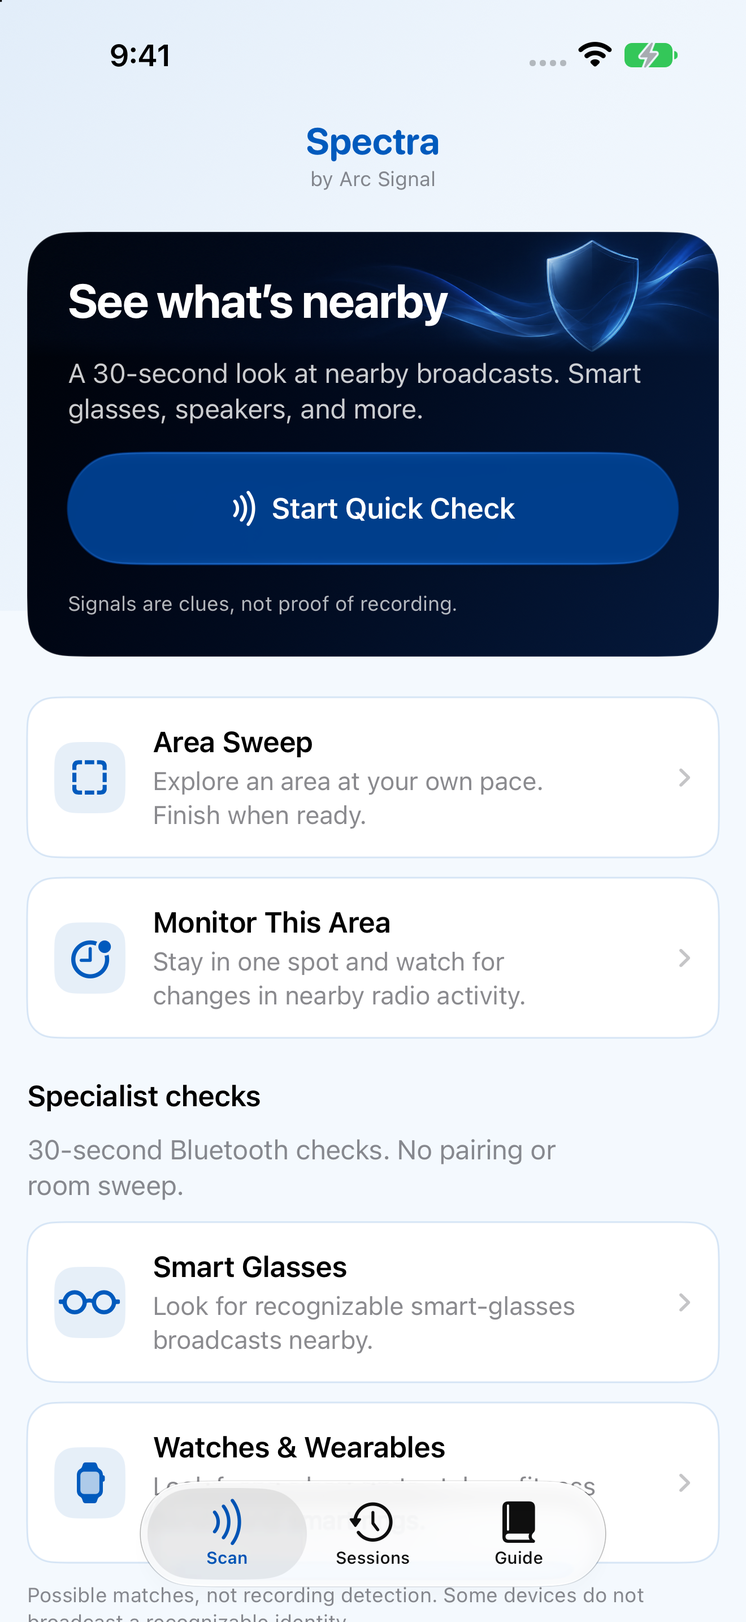
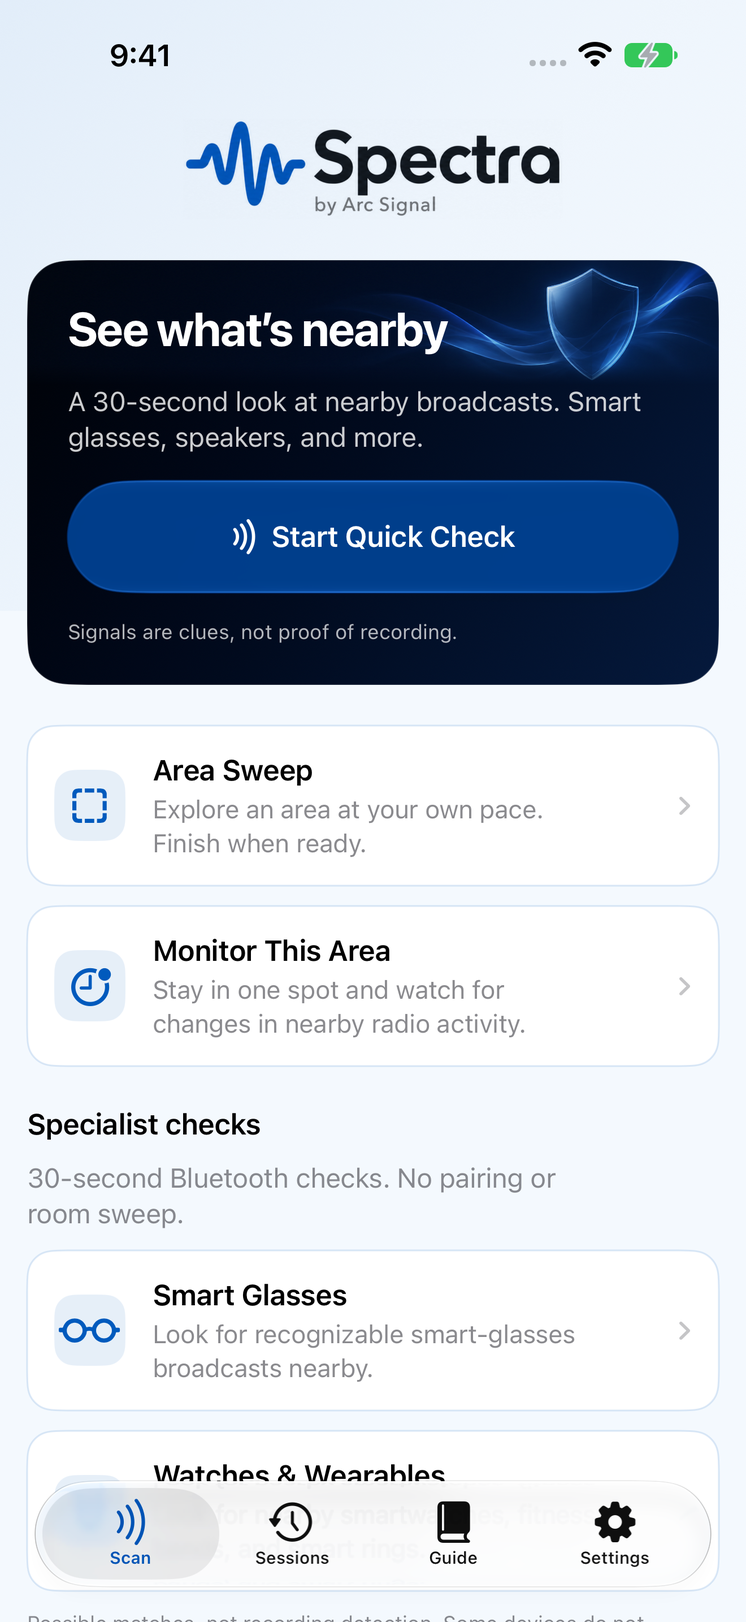
Integrate approved Spectra branding and refresh Settings-era imagery

diff --git a/guide.html b/guide.html
@@ -96,13 +96,13 @@
 <article id="privacy" class="guide-topic">
         <h2>Privacy and storage</h2><p class="guide-takeaway">No account. No advertising or analytics SDK. Your checks are processed and saved on this iPhone. Sharing is your choice.</p>
         <section><h3>On-device processing, optional sharing</h3><p>Spectra processes observations and Apple Intelligence explanations on device. It does not automatically share your results or capture camera frames or microphone recordings. External sharing is a separate choice.</p></section>
-<section><h3>You choose what gets measured</h3><p>Set up access here in Guide or when you start a check. Spectra checks selected sources again before scanning and explains when a source cannot run. Setup does not create a saved session. The camera and microphone are not accessed.</p></section>
+<section><h3>You choose what gets measured</h3><p>Set up access in Spectra’s Settings tab or when you start a check. Spectra checks selected sources again before scanning and explains when a source cannot run. Setup does not create a saved session. The camera and microphone are not accessed.</p></section>
 <section><h3>History is your choice</h3><p>Completed checks are saved locally by default. Turning saving off keeps future checks out of history; it does not delete reports you already saved.</p></section>
-<section><h3>Read the full privacy policy</h3><p>Open Privacy policy from Welcome or Guide → About for the public policy, including local observations, permissions, erasure, optional exports, support correspondence, and website hosting. Reading the website requires an internet connection; this practical Guide stays available offline.</p></section>
+<section><h3>Read the full privacy policy</h3><p>Open Privacy policy from Welcome or Spectra Settings → About for the public policy, including local observations, permissions, erasure, optional exports, support correspondence, and website hosting. Reading the website requires an internet connection; this practical Guide stays available offline.</p></section>
 <section><h3>Share only when you choose</h3><p>Export JSON on completed or saved results lets you choose Analysis JSON, Technical archive, or Reduced identifying information. Analysis JSON includes meaningful retained evidence and your notes; the technical archive also includes raw retained data and saved graphs. All formats exclude generated AI explanations. Reduced omits identifying text and raw payloads but is not anonymous. All formats ignore visible results filters. Nothing is uploaded automatically.</p></section>
 <section><h3>Copying a finding for another AI app</h3><p>Selecting one finding in Copy for AI analysis prepares its data and a prompt locally. Review the preview and privacy notice; only tapping Copy prompt and finding writes to the clipboard. Names and optional technical data may identify devices or people; the default copy is not anonymous either. Spectra requests an on-device-only clipboard item that expires after ten minutes. Pasting into another app shares it under its policies; expiration or Reset Spectra cannot recall copies already shared. No AI app opens and nothing uploads automatically.</p></section>
         <aside class="guide-important"><strong>Keep in mind</strong><p>Advertised device names can contain personal information. Those names may appear in results and saved checks on this iPhone.</p></aside>
-        <section><h3>How to use it</h3><ol><li>Use Save completed sessions on the Guide screen to control future history saving.</li><li>Open Sessions to delete one report, use Select for several, or Erase All Sessions to also remove recovery copies.</li><li>Use Reset Spectra in Guide to erase local sessions and preferences and return to Welcome. iOS permissions are controlled in Settings; copies you saved or shared elsewhere remain.</li></ol></section>
+        <section><h3>How to use it</h3><ol><li>Use Save completed sessions in Spectra Settings to control future history saving.</li><li>Open Sessions to delete one report, use Select for several, or Erase All Sessions to also remove recovery copies.</li><li>Use Reset Spectra in Spectra Settings to erase local sessions and preferences and return to Welcome. iOS permissions are controlled in iPhone Settings; copies you saved or shared elsewhere remain.</li></ol></section>
         <details><summary>More detail</summary><section><h3>Protected, bounded history</h3><p>Saved reports and notes use iOS file protection. New on-device AI explanations are temporary: they are not saved in sessions or included in exports. Older sessions may still contain explanations saved by an earlier app version; deleting those sessions removes that local history too. Spectra marks the session directory, including recovery copies, for exclusion from device backups. This is not a guarantee that sessions can never appear in a backup or on a restored device; iOS controls backup and restore behavior. Files you export may be stored or backed up by your chosen destination. The primary history file retains up to 50 sessions within 256 MiB; older sessions may be removed when either limit is reached. Safe file replacement and protected recovery copies can require additional disk space. These are not tamper-evident forensic records or an unlimited archive.</p></section>
 <section><h3>Session-scoped identifiers</h3><p>Identifiers reset with each check. Recognizable advertised names and product metadata remain unverified claims and can contain personal information; resetting an identifier does not anonymize a transmitted name.</p></section>
 <section><h3>What local-network access does</h3><p>When selected, Spectra browses a fixed catalog of Bonjour services on the joined network. It does not pair with discovered devices or open application sessions to their endpoints.</p></section>
@@ -142,10 +142,11 @@
 <section><h3>Start with access</h3><p>Welcome explains the app. Get Started opens measurement setup. Tap a measurement to request its access; a readiness checkmark reflects the system response. You can continue without every permission. A prompt explains what remains unconfigured, and a later check requests only missing access.</p></section>
 <section><h3>Choose measurements for each check</h3><p>Quick Check uses Bluetooth and optional Local Network for 30 seconds. Area Sweep is untimed and can use Bluetooth, Local Network, and Motion and magnetic, together or independently. Monitor is stationary and radio-only. Smart Glasses and Watches &amp; Wearables are Bluetooth-only specialist checks without scan-time choices. Completed results offer name search and a separate View observed activity route for Bluetooth identities that did not match. Device types are estimates, not selectable filters.</p></section>
 <section><h3>Start from the Home Screen</h3><p>Touch and hold Spectra’s app icon, then choose Quick Check, Smart Glasses, or Watches &amp; Wearables. Quick Check opens measurement selection; the specialist shortcuts check Bluetooth access before starting. On first use, finish Welcome and measurement setup, then explicitly start your requested check. Canceling clears that request. If a check is still open, including its completed results, or another task is presented over the app, Spectra preserves it instead of starting another scan; close it and choose the shortcut again. Shortcuts do not enable background scanning or completion sounds.</p></section>
+<section><h3>Choose an app icon</h3><p>In Spectra, open Settings → App icon to choose Classic, Spectra Blue, Light, or Blue on White. Each uses Spectra’s original waveform. A checkmark identifies the icon confirmed by iOS; a spinner shows a change in progress. This changes the app icon, not the colors inside Spectra. Your iPhone’s icon appearance settings may adjust the colors. Reset Spectra erases local data and returns to Welcome first, then asks iOS to restore Classic. If iOS takes longer than expected, Spectra reports the unconfirmed change; iOS may still finish an earlier request. Review the icon in Settings after setup.</p></section>
 <section><h3>No local network available?</h3><p>Local Network needs a joined Wi-Fi or supported wired local link and permission. Spectra offers Check again or continuation without that measurement when others can run. Returning from Settings rechecks availability; it does not silently start a scan. An internet connection is not required for local discovery.</p></section>
 <section><h3>Read Coverage</h3><p>Completed means the source ran for the available check window, not that every device was found. Partial means coverage was interrupted or quality-limited. Unavailable means the source could not run; Not selected means you excluded it. Read the accompanying reason before drawing conclusions.</p></section>
         <aside class="guide-important"><strong>Keep in mind</strong><p>Permission, hardware readiness, network reachability, and device visibility are different things. A green permission checkmark is not a safety verdict.</p></aside>
-        <section><h3>How to use it</h3><ol><li>Open Guide → Measurement access to revisit setup.</li><li>If iOS has already denied access, use Settings → Privacy &amp; Security or the app’s settings to change it.</li><li>Return to Spectra, choose measurements, and review any readiness message before starting.</li></ol></section>
+        <section><h3>How to use it</h3><ol><li>In Spectra, open Settings → Measurement access to revisit setup.</li><li>If iOS has already denied access, use iPhone Settings → Privacy &amp; Security or the app’s settings to change it.</li><li>Return to Spectra, choose measurements, and review any readiness message before starting.</li></ol></section>
         <details><summary>More detail</summary><section><h3>Why does Wi-Fi name ask for Location?</h3><p>Showing an optional Wi-Fi name uses Apple’s Access Wi-Fi Information rules, including Precise Location While Using the App when required. This is not needed for Bluetooth, magnetic exploration, or Bonjour browsing. Spectra does not request geographic coordinates or save the Wi-Fi name. iOS may withhold a name even when local discovery can operate.</p></section>
 <section><h3>A Wi-Fi name is not a router identity</h3><p>The displayed network name provides connection context, not a router model, physical location, or assurance that the network is trustworthy. Guest networks and client isolation may prevent discovering other clients despite a working connection.</p></section>
 <section><h3>Text size and accessibility</h3><p>Spectra uses a fixed standard text size. Changing iOS Dynamic Type or Larger Text does not resize the app’s own interface. VoiceOver labels remain available, and contrast and reduced-motion preferences still apply. System-owned permission dialogs and sharing interfaces are controlled by iOS.</p></section>
@@ -168,7 +169,7 @@
 <article id="sessions" class="guide-topic">
         <h2>Save, recheck, and manage sessions</h2><p class="guide-takeaway">Keep the checks you need, add context, and stay in control of local history.</p>
         <section><h3>Find a check by day</h3><p>Sessions groups checks by day, newest first, with the newest times first inside each group. The most recent day starts open; tap any date heading to show or hide its sessions. Each heading shows the total for that day. You can keep several days open, and your choices stay in place while moving between tabs or opening and returning from a session. These choices are not saved across app launches. A new most-recent day starts open; deleting all history or changing time zone can reset the day groups. Each row keeps its check-type icon even after you rename it.</p></section>
-<section><h3>Confirm a check was saved</h3><p>Saving completed sessions is on by default and can be changed in Guide. Turning it off affects future saving, not existing history. The completed check tells you whether it was saved. If saving fails, keep the result open and use Retry Saving or Export JSON before discarding it. A forced close, crash, or shutdown before saving can lose an unfinished check; there is no continuous autosaved draft. Finish and confirm important checks before closing the app.</p></section>
+<section><h3>Confirm a check was saved</h3><p>Saving completed sessions is on by default and can be changed in Spectra Settings. Turning it off affects future saving, not existing history. The completed check tells you whether it was saved. If saving fails, keep the result open and use Retry Saving or Export JSON before discarding it. A forced close, crash, or shutdown before saving can lose an unfinished check; there is no continuous autosaved draft. Finish and confirm important checks before closing the app.</p></section>
 <section><h3>Give a session a useful name</h3><p>Open a session and choose Session options → Rename, or use its list-row menu. Names can be up to 80 characters. Clearing a custom name restores the check-type name. Notes hold up to 1,000 characters of your own context; they do not become detector evidence. A rename does not change the original scan time.</p></section>
 <section><h3>What does the blue dot mean?</h3><p>A blue dot beside a session means newer recognition is available. Open it and choose Recheck session. Spectra reinterprets compatible saved radio evidence using the engine and catalog bundled with your app update. It does not start Bluetooth or network discovery, collect new measurements, or upload your capture. Opening a session alone does not clear the dot.</p></section>
 <section><h3>Can I recheck after leaving the location?</h3><p>Yes. A recheck uses saved evidence, so you do not need to return to the location, join its network, or enable Apple Intelligence. Newer recognition may explain a previously unclear signal, but better matches are not guaranteed. Rechecking cannot recover measurements that were never retained or tell you what is at that location now. Run a new check there for a new observation.</p></section>
@@ -176,7 +177,7 @@
 <section><h3>When is another recheck useful?</h3><p>Once a current recheck is saved, the blue dot clears for that capture family; earlier copies link to the latest interpretation. A later app update can make the newest usable copy eligible again. Deleting the current interpretation can restore eligibility on a surviving older copy. A missing revision or insufficient retained evidence can prevent rechecking; Scan breakdown explains why. Some older network records lack the original discovery fields. Unsupported records and saved magnetic readings are preserved, not reconstructed or treated as fresh measurements.</p></section>
 <section><h3>Rechecks need room to save</h3><p>A recheck keeps its own retained evidence, so it uses additional local storage and counts toward the session limit. It never removes an existing session to make room. Requesting a recheck explicitly saves a new copy even if automatic saving of completed scans is off. Deleting the original does not delete its independent rechecks. If saving fails, free space or remove sessions you no longer need, then retry. Cancel or leave the screen to stop pending work; a copy already saved at the moment you cancel remains in Sessions. Erase All Sessions and Reset include rechecks.</p></section>
 <section><h3>Why did an older session disappear?</h3><p>The primary history file keeps up to 50 sessions within 256 MiB, whichever limit is reached first. Temporary replacement files and protected recovery copies may need additional disk space. Saving a new check can remove the oldest reports. Sessions warns as the count approaches the limit and reports retention removals. Export important records before continuing to fill history. Spectra marks local history for exclusion from device backups; iOS controls backup and restore behavior. Files you export may be backed up by your chosen destination.</p></section>
-<section><h3>Choose the right erase action</h3><p>Delete one session from its list actions, or Select several. Hiding a day does not deselect its sessions: the date heading keeps its selected count, and Delete Selected shows the total across days. Open that day to change its selection. Erase All Sessions includes closed days and recovery copies; it is disabled when there is nothing to erase. Reset Spectra in Guide also clears preferences and returns to Welcome. Confirmations are deliberate because erasure cannot be undone.</p></section>
+<section><h3>Choose the right erase action</h3><p>Delete one session from its list actions, or Select several. Hiding a day does not deselect its sessions: the date heading keeps its selected count, and Delete Selected shows the total across days. Open that day to change its selection. Erase All Sessions includes closed days and recovery copies; it is disabled when there is nothing to erase. Reset Spectra in Spectra Settings also clears preferences and returns to Welcome. Confirmations are deliberate because erasure cannot be undone.</p></section>
         <aside class="guide-important"><strong>Keep in mind</strong><p>Deleting or resetting Spectra cannot delete exports, email attachments, or files already saved elsewhere. iOS permissions also remain under Settings control.</p></aside>
         <section><h3>How to use it</h3><ol><li>Open Sessions, tap a date heading if needed, and choose a check by its name and time. A blue dot marks an available recheck, not an unread session.</li><li>If Recheck session is available, tap it and wait for a separately saved result. Review the original Captured date, the Rechecked date, and any identification changes.</li><li>Review results and Coverage, rename or add notes, then export anything you need to keep outside bounded history.</li><li>Use individual, selected, or all-session deletion for the scope you intend. Read the confirmation before erasing.</li></ol></section>
         <details><summary>More detail</summary><section><h3>Storage is temporarily unavailable</h3><p>Unlock the iPhone and return to Spectra or retry saving. A temporary read failure pauses history changes and is retried; it does not trigger damaged-file recovery or authorize overwriting existing sessions. If the problem persists, keep any unsaved result open and export it if possible before contacting support.</p></section>
@@ -214,14 +215,14 @@
 <section><h3>Wi-Fi works but no devices appear</h3><p>Internet access does not prove local discovery works. Guest isolation, blocked multicast, unadvertised service types, separate subnets, or a denied Local Network permission can prevent results. Check Coverage and the joined network. Spectra is not a scanner for all Wi-Fi radios and does not probe arbitrary ports.</p></section>
 <section><h3>A check stopped or looks incomplete</h3><p>Keep Spectra visible. Locking, switching apps, permission changes, source loss, and early Finish can limit a check. Review the incomplete message and retained findings; do not interpret it as no matches. After restoring access, start a fresh check. On a busy scan, wait for Finish to explore stable detailed results.</p></section>
         <aside class="guide-important"><strong>Keep in mind</strong><p>For a repeatable problem, contact support@arcsignal.app. Start with support information, the steps taken, and what you expected. Do not send private scan results unless you deliberately choose to share them.</p></aside>
-        <section><h3>How to use it</h3><ol><li>Open Coverage and read the reason for each partial or unavailable measurement.</li><li>Check Settings if access was denied, return to Spectra, and repeat the smallest affected check.</li><li>Use Guide → Copy support information, then Email support. The copy includes version, build, iOS, hardware model and catalog revision—not scan data.</li></ol></section>
+        <section><h3>How to use it</h3><ol><li>Open Coverage and read the reason for each partial or unavailable measurement.</li><li>Check iPhone Settings if access was denied, return to Spectra, and repeat the smallest affected check.</li><li>In Spectra Settings, use Copy support information, then Email support. The copy includes version, build, iOS, hardware model and catalog revision—not scan data.</li></ol></section>
         <details><summary>More detail</summary><section><h3>Heat, battery, and dense environments</h3><p>Live radios, sensors, and the screen use power. Finish checks you no longer need. Keep the phone ventilated and follow iOS temperature warnings; Spectra cannot guarantee identical performance across all hardware or conditions. Bounded buffers may drop observations in dense environments, which Coverage reports.</p></section>
 <section><h3>Help us reproduce it safely</h3><p>Include the scan mode, selected sources, approximate duration, permission state, whether the app was interrupted, and exact error text. Screenshots may include personal broadcast names; review them before sending. The support clipboard expires after ten minutes and is not shared through Universal Clipboard. Email opens your chosen mail app; nothing is attached or sent automatically.</p></section></details>
         <a class="text-link" href="#main">Back to topics ↑</a>
       </article>
       <section id="support" class="guide-topic"><p class="eyebrow">A person can help</p><h2>Still have a question?</h2>
         <p>Email <a href="mailto:support@arcsignal.app">support@arcsignal.app</a>. Include the scan mode, selected measurements, what happened, and what you expected.</p>
-        <p>In Spectra, choose Guide → Copy support information for the version, build, iOS, hardware model, and catalog revision. It contains no scan data. Review screenshots and exports for personal information before sharing.</p>
+        <p>In Spectra, choose Settings → Copy support information for the version, build, iOS, hardware model, and catalog revision. It contains no scan data. Review screenshots and exports for personal information before sharing.</p>
         <p>Nothing is attached or sent automatically. For a credible security threat, use a trusted security contact rather than relying on a phone scan or waiting for product support.</p>
       </section>
     </div></div>

diff --git a/spectra.html b/spectra.html
@@ -18,8 +18,8 @@
   <link rel="apple-touch-icon" href="assets/images/spectra-touch-icon.png">
   <link rel="preload" href="assets/fonts/inter-latin.woff2" as="font" type="font/woff2" crossorigin>
   <link rel="preload" href="assets/fonts/bodoni-moda-latin.woff2" as="font" type="font/woff2" crossorigin>
-  <link rel="stylesheet" href="assets/css/site.css">
-  <script src="assets/js/site-motion.js" defer></script>
+  <link rel="stylesheet" href="assets/css/site.css?v=ffaf7b49b39a">
+  <script src="assets/js/site-motion.js?v=d9a6de5ca733" defer></script>
 </head>
 <body class="spectra-page">
   <a class="skip-link" href="#main">Skip to content</a>
@@ -39,8 +39,8 @@
   </header>
   <main id="main" tabindex="-1">
     <section class="hero shell" aria-labelledby="hero-title">
-      <div class="hero-copy">
-        <p class="eyebrow">Spectra™ / Security awareness</p>
+      <div class="hero-copy hero-copy--branded">
+        <svg class="spectra-wordmark spectra-wordmark--hero" viewBox="466 256 1058 280" width="1058" height="280" role="img" aria-label="Spectra by Arc Signal" focusable="false"><image href="assets/images/spectra-wordmark.webp?v=8a8abe3a9dbe" width="1983" height="793"/></svg>
         <h1 id="hero-title">Privacy starts<br>with <em>awareness.</em></h1>
         <p class="hero-summary">Explore nearby Bluetooth signals, local network services, and magnetic-field changes—all on your device.</p>
         <div class="actions">
@@ -78,10 +78,10 @@
     <section class="section shell" aria-labelledby="screens-title">
       <div class="section-intro split-heading"><div><p class="eyebrow">Inside the app</p><h2 id="screens-title">Clear at a glance.<br>More when you need it.</h2></div><p class="section-summary">Explore real screens from Spectra. Readings are simulated examples, not evidence of nearby devices. Select a screen to view it full-size.</p></div>
       <div class="screenshot-grid">
-        <figure><a href="assets/images/spectra-overview.webp?v=d9a6415a6567" aria-label="Open the full-size Spectra home screenshot"><img src="assets/images/spectra-overview.webp?v=d9a6415a6567" width="1320" height="2868" alt="Spectra’s current home screen with the blue Quick Check illustration and scan choices" loading="lazy" decoding="async"></a><figcaption><h3>Start with the right check.</h3><p>Start a quick radio check, explore with Area Sweep, or monitor the area.</p></figcaption></figure>
-        <figure><a href="assets/images/spectra-smart-glasses.webp?v=c66a82e3ca47" aria-label="Open the full-size Smart Glasses result screenshot"><img src="assets/images/spectra-smart-glasses.webp?v=c66a82e3ca47" width="1320" height="2868" alt="A fictional Acme Smart Glasses result with confidence, Bluetooth strength, and supporting evidence" loading="lazy" decoding="async"></a><figcaption><h3>Find a recognizable clue.</h3><p>Smart Glasses and Watches &amp; Wearables have dedicated checks. See possible matches clearly, with their evidence and limits.</p></figcaption></figure>
-        <figure><a href="assets/images/spectra-area-sweep.webp?v=d94124c664a7" aria-label="Open the full-size Area Sweep magnetic-meter screenshot"><img src="assets/images/spectra-area-sweep.webp?v=d94124c664a7" width="1320" height="2868" alt="Area Sweep’s live magnetic meter showing delta from reference and a graph with an example excursion" loading="lazy" decoding="async"></a><figcaption><h3>Explore with Area Sweep.</h3><p>Watch the magnetic field and changes from a stable reference. Magnetic measurement is available in Area Sweep; Quick Check focuses on radio signals.</p></figcaption></figure>
-        <figure><a href="assets/images/spectra-monitor.webp?v=6436a97fae5c" aria-label="Open the full-size Monitor change-summary screenshot"><img src="assets/images/spectra-monitor.webp?v=6436a97fae5c" width="1320" height="2868" alt="Monitor’s change dashboard with a newly observed fictional Acme Room Speaker after the baseline" loading="lazy" decoding="async"></a><figcaption><h3>Notice what changed.</h3><p>Keep the phone still and Spectra open. Glance at newly observed activity; Finish opens the complete review.</p></figcaption></figure>
+        <figure><a href="assets/images/spectra-overview.webp?v=8383bddd169f" aria-label="Open the full-size Spectra home screenshot"><img src="assets/images/spectra-overview.webp?v=8383bddd169f" width="1320" height="2868" alt="Spectra’s current home screen with the blue Quick Check illustration and scan choices" loading="lazy" decoding="async"></a><figcaption><h3>Start with the right check.</h3><p>Start a quick radio check, explore with Area Sweep, or monitor the area.</p></figcaption></figure>
+        <figure><a href="assets/images/spectra-smart-glasses.webp?v=f2d268457194" aria-label="Open the full-size Smart Glasses result screenshot"><img src="assets/images/spectra-smart-glasses.webp?v=f2d268457194" width="1320" height="2868" alt="A fictional Acme Smart Glasses result with confidence, Bluetooth strength, and supporting evidence" loading="lazy" decoding="async"></a><figcaption><h3>Find a recognizable clue.</h3><p>Smart Glasses and Watches &amp; Wearables have dedicated checks. See possible matches clearly, with their evidence and limits.</p></figcaption></figure>
+        <figure><a href="assets/images/spectra-area-sweep.webp?v=41ca8873f6ac" aria-label="Open the full-size Area Sweep magnetic-meter screenshot"><img src="assets/images/spectra-area-sweep.webp?v=41ca8873f6ac" width="1320" height="2868" alt="Area Sweep’s live magnetic meter showing delta from reference and a graph with an example excursion" loading="lazy" decoding="async"></a><figcaption><h3>Explore with Area Sweep.</h3><p>Watch the magnetic field and changes from a stable reference. Magnetic measurement is available in Area Sweep; Quick Check focuses on radio signals.</p></figcaption></figure>
+        <figure><a href="assets/images/spectra-monitor.webp?v=711424887f10" aria-label="Open the full-size Monitor change-summary screenshot"><img src="assets/images/spectra-monitor.webp?v=711424887f10" width="1320" height="2868" alt="Monitor’s change dashboard with a newly observed fictional Acme Room Speaker after the baseline" loading="lazy" decoding="async"></a><figcaption><h3>Notice what changed.</h3><p>Keep the phone still and Spectra open. Glance at newly observed activity; Finish opens the complete review.</p></figcaption></figure>
       </div>
     </section>
     <section class="section modes-section" aria-labelledby="modes-title">

diff --git a/spectra-privacy.html b/spectra-privacy.html
@@ -61,12 +61,12 @@
         </section>
         <section id="storage" class="guide-topic">
           <h2>Keep what matters. Erase what does not.</h2>
-          <p>Completed sessions are saved by default in the app’s local storage. Turn off Save completed sessions in Guide to stop future automatic scan saving; existing sessions remain until deleted. The primary history file keeps up to 50 sessions within a 256 MiB budget, removing older reports when needed for a new scan. Temporary files used for safe replacement and protected recovery copies can require additional disk space. A lightweight index lists sessions. Retained evidence is read locally when you open or recheck a session, or when an update refreshes compatibility metadata; browsing history does not run a new scan. Long-running measurement traces and event histories are also bounded.</p>
+          <p>Completed sessions are saved by default in the app’s local storage. Turn off Save completed sessions in Spectra Settings to stop future automatic scan saving; existing sessions remain until deleted. The primary history file keeps up to 50 sessions within a 256 MiB budget, removing older reports when needed for a new scan. Temporary files used for safe replacement and protected recovery copies can require additional disk space. A lightweight index lists sessions. Retained evidence is read locally when you open or recheck a session, or when an update refreshes compatibility metadata; browsing history does not run a new scan. Long-running measurement traces and event histories are also bounded.</p>
           <p>Saved reports and notes use iOS file protection. New on-device AI explanations are temporary: they are not saved in sessions or included in exports. Older sessions may still contain explanations saved by an earlier app version; deleting those sessions removes that local history too. Spectra marks the session directory, including recovery copies, for exclusion from device backups. This is not a guarantee that sessions can never appear in a backup or on a restored device; iOS controls backup and restore behavior. Files you export may be stored or backed up by your chosen destination.</p>
           <p>Recheck copies use additional local storage and count toward the same session limit. A recheck never removes another session to make room. Deleting the original does not delete its independent rechecks or erase their naming lineage. Delete the copies you no longer need, or use Erase All Sessions or Reset Spectra for the app-wide actions described below. Turning off automatic saving of completed scans does not prevent an explicitly requested recheck from saving a new copy.</p>
           <p>A privacy cover obscures sensitive app content when the app is no longer active. These protections do not make a report tamper-evident or guarantee protection on an unlocked or compromised device.</p>
           <p>If a history file is damaged, Spectra pauses changes and may preserve a protected local recovery copy. Up to three recovery copies are retained. A temporary storage-access failure is retried and is not treated as permission to overwrite your history.</p>
-          <p>In Sessions, delete one report, select several, or use Erase All Sessions to remove saved reports and recovery copies. Reset Spectra in Guide also clears preferences and returns to Welcome. Both all-data actions remove app-owned temporary JSON handoff files; failures are reported rather than described as successful erasure. Individual deletion removes that report from primary history, not older recovery copies—use Erase All Sessions or Reset Spectra for those.</p>
+          <p>In Sessions, delete one report, select several, or use Erase All Sessions to remove saved reports and recovery copies. Reset Spectra in Spectra Settings also clears preferences and returns to Welcome, then asks iOS to restore the Classic app icon. An unconfirmed cosmetic icon change does not undo data erasure. Both all-data actions remove app-owned temporary JSON handoff files; failures are reported rather than described as successful erasure. Individual deletion removes that report from primary history, not older recovery copies—use Erase All Sessions or Reset Spectra for those.</p>
           <p>Erasure cannot recall copies saved outside Spectra, shared with another app or person, or retained by a service you selected. It also cannot remove mail you sent to support; contact us separately about that information.</p>
         </section>
         <section id="apple-intelligence" class="guide-topic">
@@ -106,7 +106,7 @@
         </section>
         <section id="changes" class="guide-topic">
           <h2>Changes to this policy</h2>
-          <p>We may update this policy as Spectra, our service providers, or requirements change. The effective date above identifies the current policy. Material changes will be explained here and, where required, through an appropriate notice or consent flow. The policy is available from Welcome and Guide → About in Spectra.</p>
+          <p>We may update this policy as Spectra, our service providers, or requirements change. The effective date above identifies the current policy. Material changes will be explained here and, where required, through an appropriate notice or consent flow. The policy is available from Welcome and Settings → About in Spectra.</p>
           <a class="text-link" href="#main">Back to top ↑</a>
         </section>
       </div>

diff --git a/index.html b/index.html
@@ -18,8 +18,8 @@
   <link rel="apple-touch-icon" href="assets/images/spectra-touch-icon.png">
   <link rel="preload" href="assets/fonts/inter-latin.woff2" as="font" type="font/woff2" crossorigin>
   <link rel="preload" href="assets/fonts/bodoni-moda-latin.woff2" as="font" type="font/woff2" crossorigin>
-  <link rel="stylesheet" href="assets/css/site.css">
-  <script src="assets/js/site-motion.js" defer></script>
+  <link rel="stylesheet" href="assets/css/site.css?v=ffaf7b49b39a">
+  <script src="assets/js/site-motion.js?v=d9a6de5ca733" defer></script>
 </head>
 <body class="company-page">
   <a class="skip-link" href="#main">Skip to content</a>
@@ -55,8 +55,8 @@
       <div class="section-intro split-heading"><div><p class="eyebrow">Meet Spectra</p><h2 id="products-title">Observe. Understand.<br>Decide what’s next.</h2></div><p class="section-summary">From a quick check to a closer look, Spectra brings electronic observations and their meaning into one place.</p></div>
       <div class="product-grid">
         <article class="product-card spectra-card" id="spectra">
-          <div class="product-card-copy"><div class="product-card-meta"><p class="eyebrow">Security awareness</p><span class="status">Coming soon</span></div><h3>Spectra™</h3><p class="card-promise">The signals are there.<br>Make sense of them.</p><p>Explore nearby Bluetooth signals, local network services, and magnetic-field changes. See the evidence behind each observation.</p><a class="text-link" href="spectra.html" id="how-it-works">Explore Spectra <span aria-hidden="true">↗</span></a><p class="caption">iPhone · iOS 27 or later</p></div>
-          <a class="product-card-visual" href="spectra.html" aria-label="Explore Spectra security awareness"><img src="assets/images/spectra-overview.webp?v=d9a6415a6567" width="1320" height="2868" alt="Spectra’s current home screen with Quick Check and area exploration choices" loading="lazy" decoding="async"><span class="visual-caption">Spectra · App preview</span></a>
+          <div class="product-card-copy"><div class="product-card-meta"><p class="eyebrow">Security awareness</p><span class="status">Coming soon</span></div><h3><svg class="spectra-wordmark" viewBox="466 256 1058 280" width="1058" height="280" role="img" aria-label="Spectra by Arc Signal" focusable="false"><image href="assets/images/spectra-wordmark.webp?v=8a8abe3a9dbe" width="1983" height="793"/></svg></h3><p class="card-promise">The signals are there.<br>Make sense of them.</p><p>Explore nearby Bluetooth signals, local network services, and magnetic-field changes. See the evidence behind each observation.</p><a class="text-link" href="spectra.html" id="how-it-works">Explore Spectra <span aria-hidden="true">↗</span></a><p class="caption">iPhone · iOS 27 or later</p></div>
+          <a class="product-card-visual" href="spectra.html" aria-label="Explore Spectra security awareness"><img src="assets/images/spectra-overview.webp?v=8383bddd169f" width="1320" height="2868" alt="Spectra’s current home screen with Quick Check and area exploration choices" loading="lazy" decoding="async"><span class="visual-caption">Spectra · App preview</span></a>
         </article>
       </div>
     </section>

diff --git a/assets/css/site.css b/assets/css/site.css
@@ -27,6 +27,13 @@ em { font-style: normal; color: var(--blue); }
 .site-header .brand-mark { gap: .625rem; }
 .brand-signal { display: block; width: 36px; height: 28px; flex: none; }
 .brand-period { color: var(--blue); }
+/* The actual owner-supplied Circular artwork, not retypeset website text.
+   Inline SVG crops whitespace; multiply integrates its white matte without
+   changing the raster. Keep product identity out of company navigation. */
+.spectra-wordmark { display: block; width: 14rem; max-width: 100%; height: auto; overflow: hidden; mix-blend-mode: multiply; }
+.spectra-wordmark--hero { width: clamp(14rem, 24vw, 18rem); margin-bottom: 1.5rem; }
+/* Also safe when a visitor has the previous motion script cached. */
+.hero-copy--branded.is-revealing { animation: none; }
 nav { display: flex; align-items: center; flex-wrap: wrap; gap: clamp(1rem, 3vw, 2.5rem); }
 nav a { display: inline-flex; align-items: center; min-height: 44px; font-size: .875rem; text-decoration: none; color: var(--muted); }
 nav a:hover, nav a[aria-current="page"], .text-link:hover { color: var(--blue); }

diff --git a/assets/js/site-motion.js b/assets/js/site-motion.js
@@ -5,7 +5,8 @@
   if (preference.matches) return;
 
   const targets = document.querySelectorAll(
-    '.hero-copy, .hero-product, .section-intro, .product-card-visual, ' +
+    // Fading this branded ancestor would isolate its raster matte blending.
+    '.hero-copy:not(.hero-copy--branded), .hero-product, .section-intro, .product-card-visual, ' +
     '.screenshot-grid > figure, .three-column > article, .feature-grid > article'
   );
   const observer = new IntersectionObserver(entries => {

diff --git a/README.md b/README.md
@@ -210,15 +210,59 @@ Keep its direct-link page current. Restore public navigation, promotional copy,
 and indexing only when Seamless is ready to feature again. Privacy copy distinguishes local
 stitching from iCloud retrieval and destination services chosen by the user.
 
+## Spectra product wordmark
+
+The approved Circular logo appears once in the Spectra product hero and once in
+the company homepage's Spectra card. Arc Signal remains the navigation/footer
+brand. Inter/Bodoni typography, the original black waveform app icon, and the
+NordVPN partner treatment are unchanged. Never substitute a font or redraw the
+supplied lettering. The homepage retains a semantic product heading; each logo
+has one accessible image name, "Spectra by Arc Signal".
+
+`assets/data/spectra-brand.json` records the approved source PNG hash, lossless
+WebP hash, decoded-pixel hash, dimensions, and view crop. Every decoded pixel is
+preserved. Inline SVG crops only whitespace; an external SVG wrapper loaded as
+an img may block its external raster dependency and must not be substituted.
+Multiply blending integrates the white matte into the light-only site. The
+branded hero stays static so an opacity animation cannot isolate that blend and
+flash a white rectangle. No JavaScript is needed to render the logo.
+Both branded pages version their stylesheet and optional motion-script URLs with
+the current content hashes. A visitor with the older resources cached therefore
+receives the sizing/blending rules needed by the new wordmark. Tests reject stale
+revision strings; update these two URLs when changing the corresponding resources.
+
+The hero width is 14–18rem; the product-card logo is 14rem, constrained by available
+space. This balances brand visibility and byline legibility without competing
+with the headline or download action. These limited placements follow
+[Apple branding](https://developer.apple.com/design/human-interface-guidelines/branding)
+and [NN/g consistency](https://www.nngroup.com/articles/consistency-and-standards/),
+not a claim of measured engagement improvement.
+
+Reproduce using `cwebp` and ImageMagick:
+
+```sh
+node scripts/import-spectra-wordmark.mjs /path/to/Spectra/repository
+```
+
+The importer checks the approved source and decoded-pixel equality, validates
+both HTML placements, then updates content-hashed URLs. Normal site tests check
+committed hashes and placement without image tooling. The original 3 MB content
+budget stays in place, with a separate 415,000-byte allowance only for this
+lossless logo (currently 411,678 bytes). Images/fonts remain self-hosted.
+
 ## App screenshots
 
-The September 17 refresh uses the same verified native captures as Spectra’s
+The September 18 refresh uses the same verified native captures as Spectra’s
 App Store set: Home, Smart Glasses results, magnetic Area Sweep, and the current
 Monitor change dashboard. The approved app interface is not retouched. Fictional
 Acme names and isolated simulator readings are disclosed in the gallery caption.
 Light/dark appearance follows each original capture. App Store marketing frames
 and traveler artwork remain in the app repository; website images are UI-only.
-The source revision is `cb55303`: Home includes Watches & Wearables, and the
+The source revision is `fc111c9`: Home uses the owner's exact Circular wordmark,
+and the bottom navigation now has Scan, Sessions, Guide, and Settings. Guide
+contains searchable help; Settings owns global preferences, app-icon colors,
+privacy/storage controls, About, support, and reset. The generated Guide and
+privacy policy describe the current routes. Home includes Watches & Wearables, and the
 Smart Glasses frame shows a naturally completed check with the full finding,
 signal context, and Review details action. The current unified Results layout
 and name search are visible; there are no retired device-category filters.
@@ -238,8 +282,8 @@ Refresh tooling requires `cwebp` and ImageMagick. Lossless WebP preserves native
 1320 × 2868 dimensions and every decoded pixel while reducing transfer size.
 The importer uses maximum-effort lossless encoding (`-q 100 -m 6`), preserves the
 ICC profile, and checks decoded pixels after conversion. Its extra work happens
-only during asset preparation, not in a visitor's browser. The 3 MB total public
-bundle budget remains unchanged.
+only during asset preparation, not in a visitor's browser. The original 3 MB
+content budget excludes only the separately bounded wordmark described above.
 The importer also versions homepage/gallery image URLs and full-size links with
 the output content hash, replacing prior versions idempotently. Updated HTML
 therefore requests updated screenshots without relying on image cache expiry;
@@ -260,7 +304,8 @@ captures from the app’s built-in fictional sample flow, exported September 6,
 2026. They contain no customer images or private reproduction data. The Seamless
 icon is copied from the app’s current asset catalog. Homepage screenshot cards
 show cropped previews; full screenshots are available on the product pages.
-The combined public bundle stays under 3 MB, with full app screens loaded lazily.
+The public bundle stays within its 3 MB content budget plus the bounded wordmark
+allowance, with full app screens loaded lazily.
 
 The waveform icon comes from Spectra’s original app asset catalog. The header
 reuses that waveform through an SVG luminance mask, displaying only the black
